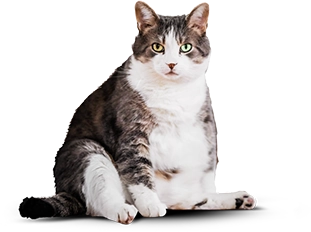
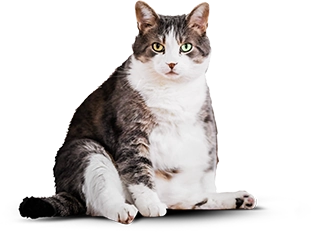
Исправляет опечатку в пути картинки

diff --git a/source/index.html b/source/index.html
@@ -176,8 +176,8 @@
             <div class="example__slider-images">
               <picture>
                 <source type="image/webp" media="(min-width: 768px)"
-                  srcset="img/slider/webp/cat-fat-tablet.webp 1x, img/slider/cat-fat-tablet@2x.webp 2x">
-                <source type="image/webp" srcset="img/slider/webp/cat-fat-mobile.webp 1x, img/slider/cat-fat-mobile@2x.webp 2x">
+                  srcset="img/slider/webp/cat-fat-tablet.webp 1x, img/slider/webp/cat-fat-tablet@2x.webp 2x">
+                <source type="image/webp" srcset="img/slider/webp/cat-fat-mobile.webp 1x, img/slider/webp/cat-fat-mobile@2x.webp 2x">
 
                 <source media="(min-width: 768px)"
                   srcset="img/slider/cat-fat-tablet.png 1x, img/slider/cat-fat-tablet@2x.png 2x">
